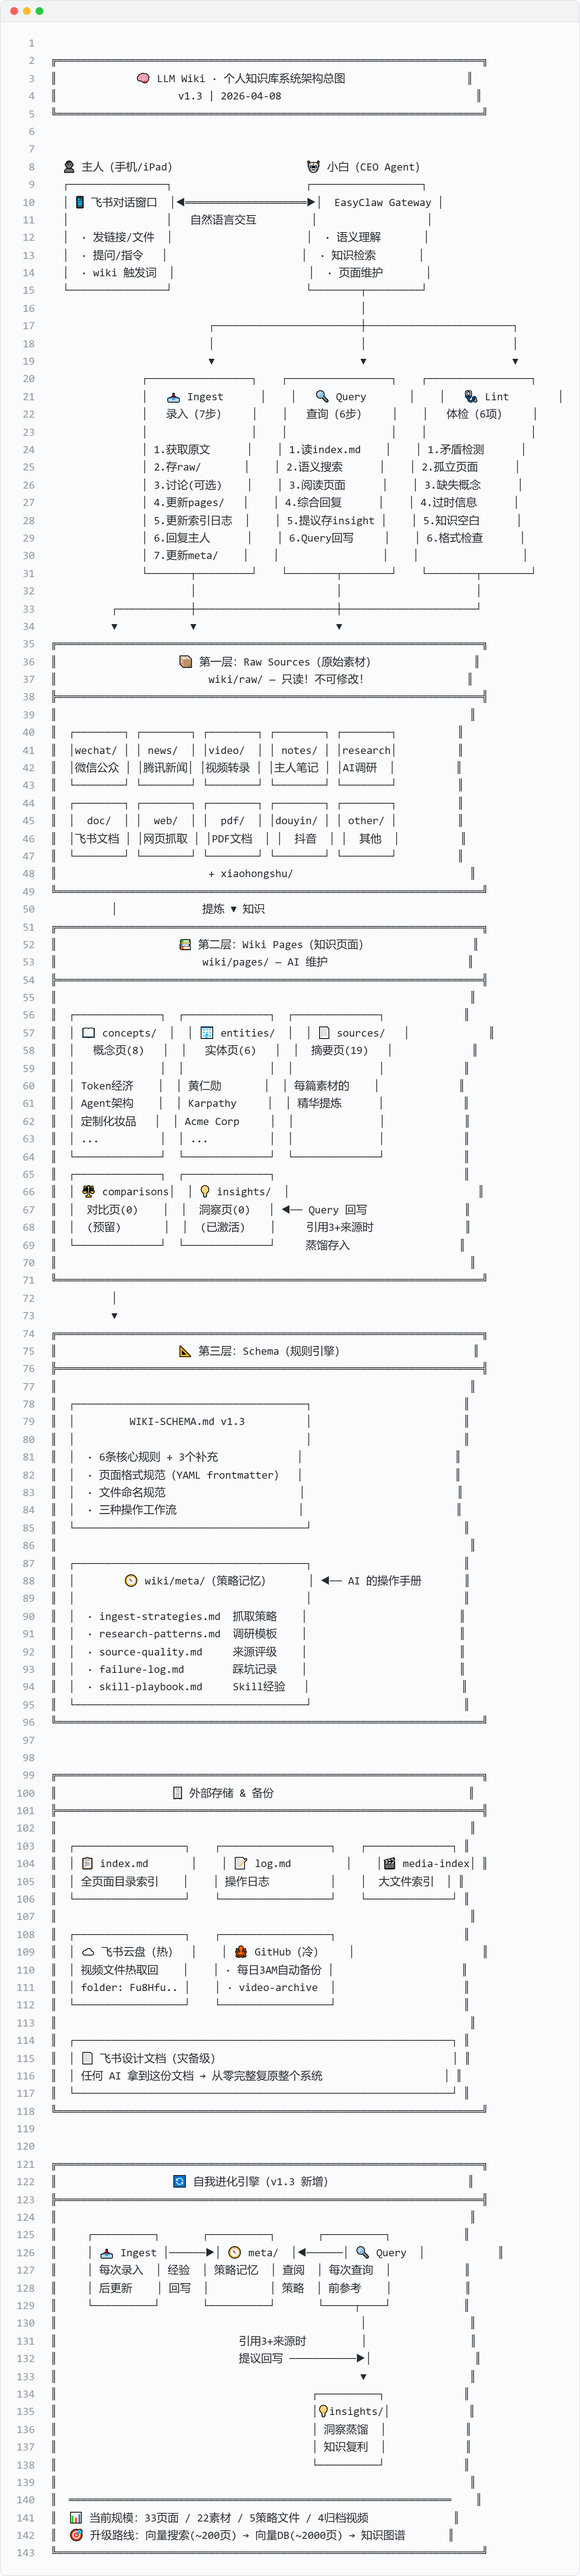
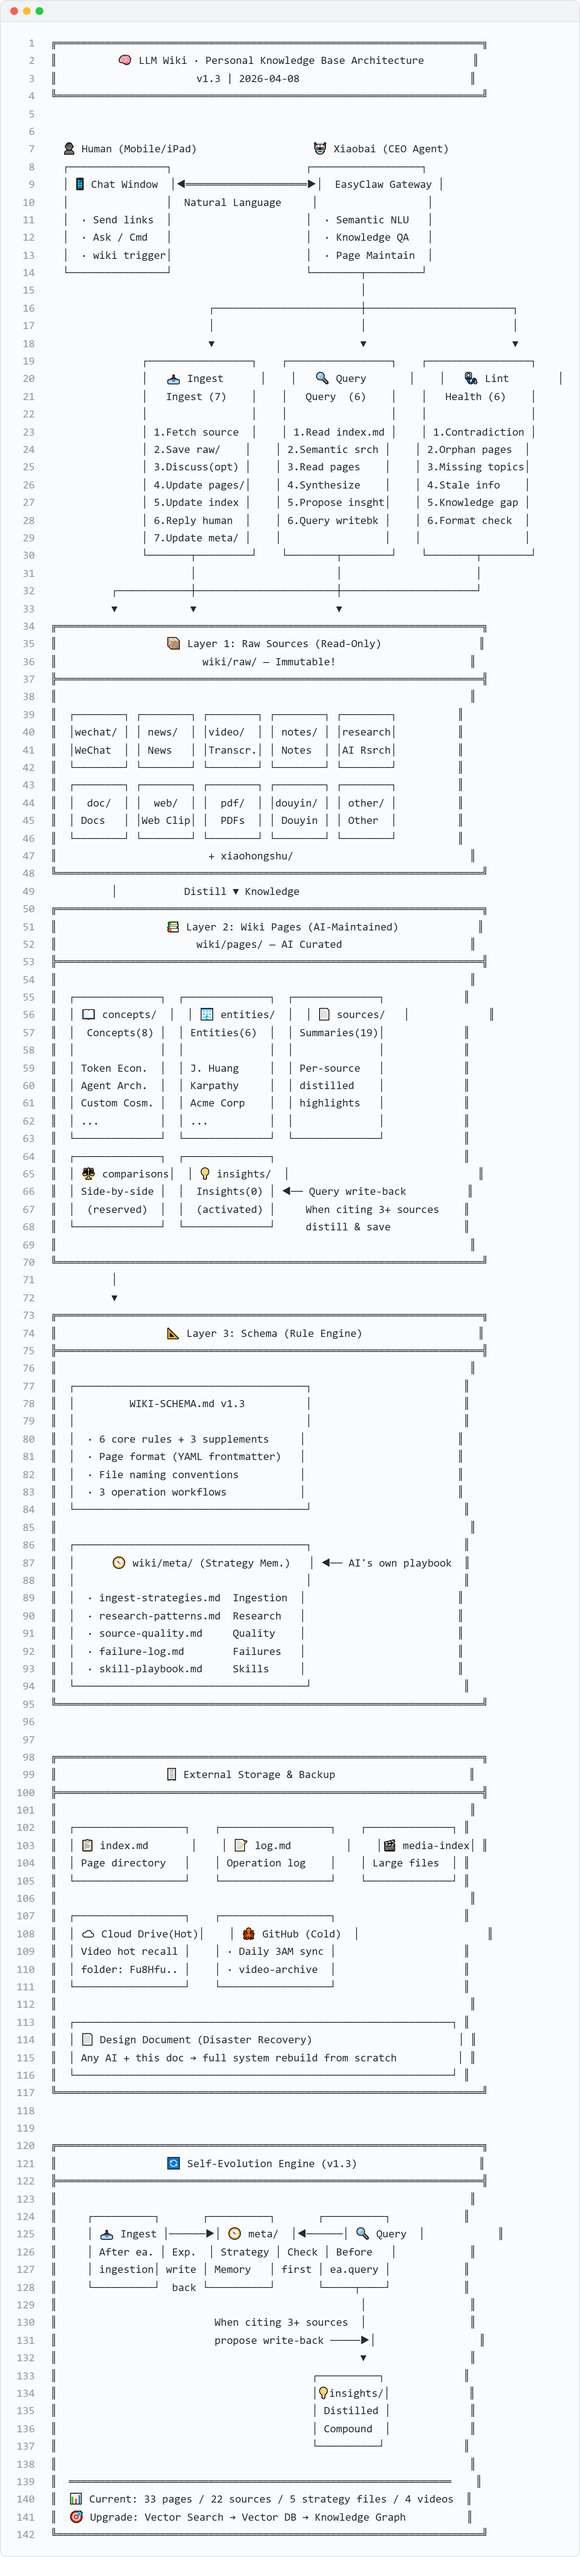
docs: bilingual architecture diagrams (EN + ZH)
- architecture-diagram.png: new English version (all labels translated)
- architecture-diagram-zh.png: renamed from original Chinese version
- design-document-zh.md: updated to reference -zh diagram
- README_CN.md: added docs section with architecture diagram + links
- Naming convention matches design docs: base name = EN, -zh suffix = CN

diff --git a/README_CN.md b/README_CN.md
@@ -1,8 +1,20 @@
-# 🧠 LLM Wiki
+# 🧠 LLM Wiki
 
 **用任何大语言模型驱动的个人知识库。60 秒上手。**
 
 > 灵感来自 [Andrej Karpathy 的 llm-wiki](https://gist.github.com/karpathy/1dd0294ef9567971c1e4348a90d69285)。不只是一个理念，而是一个开箱即用的 starter kit。Clone 下来，把 Schema 贴进 Claude 或 ChatGPT，立刻开始构建你的知识库。
+
+---
+
+## 📖 设计文档与架构
+
+> 想深入了解？请查看 [`docs/`](docs/) 目录：
+>
+> - 🇺🇸 [**Design Document (English)**](docs/design-document.md) — 英文版设计文档
+> - 🇨🇳 [**设计文档（中文版）**](docs/design-document-zh.md) — 完整中文版
+> - 🏗 [**架构总图**](docs/architecture-diagram-zh.png) — 系统蓝图一览
+>
+> 另见：[📋 更新日志](CHANGELOG.md) · [🗺 路线图](ROADMAP.md) · [📔 开发日志](docs/devlog.md)
 
 ---
 
